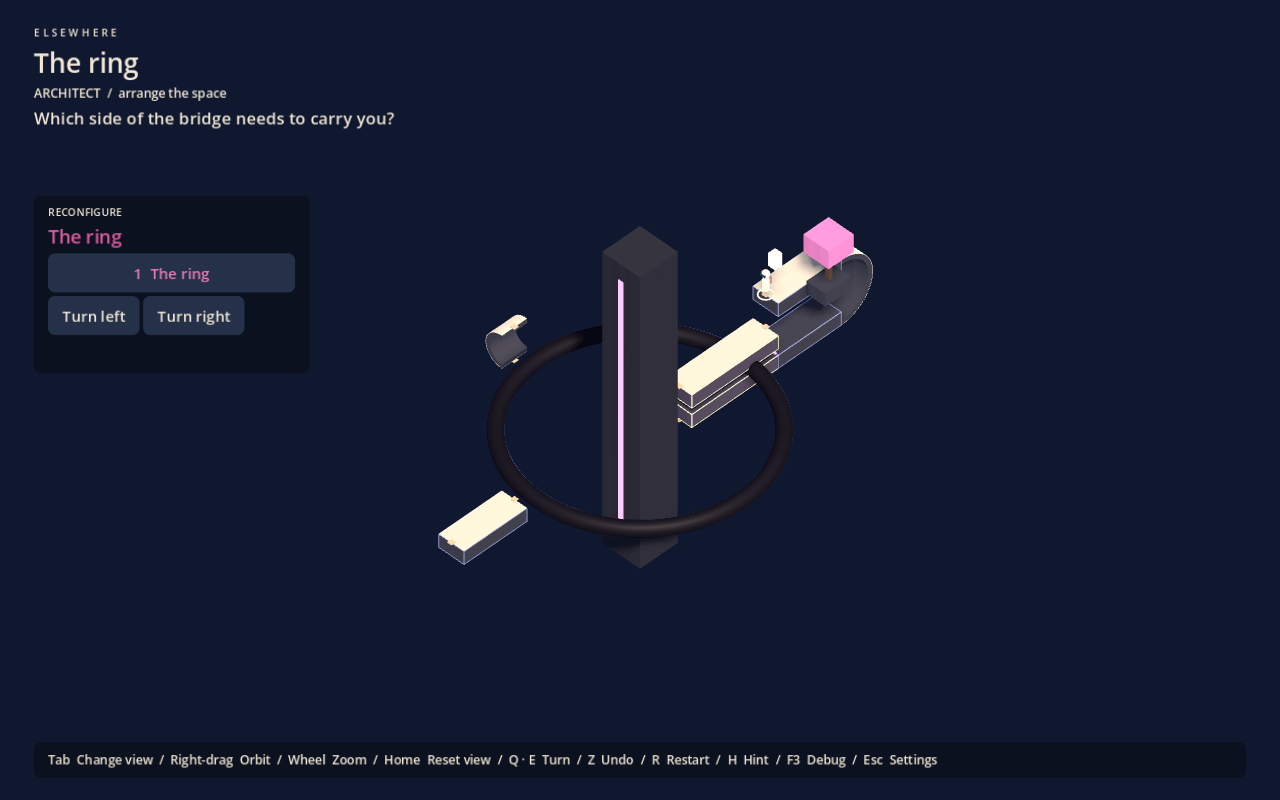
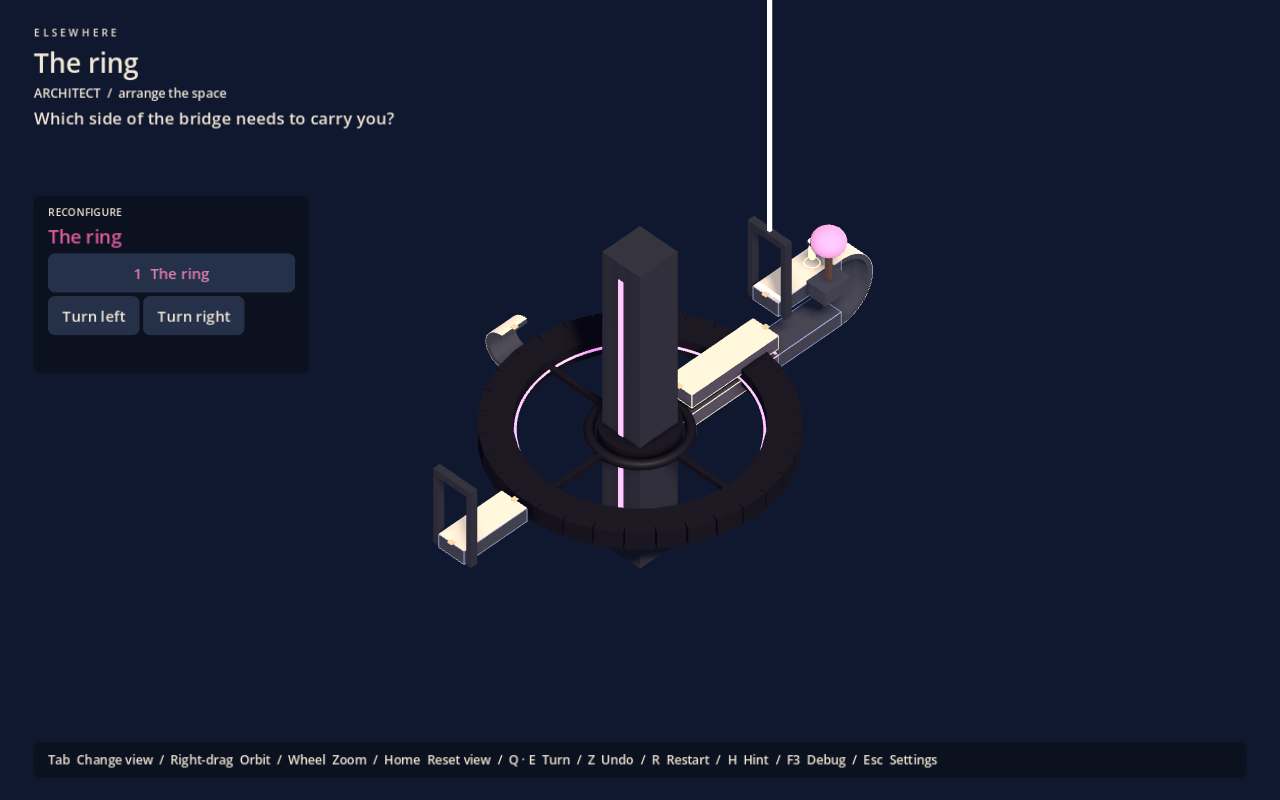
Make The Ring read as one monument
Turn the decorative tube into a wheel mounted on the tower: a flat
32-segment ring band with a magenta inner edge, a hub around a fixed tower
collar, and three slim ribs alongside the walkable bridge. All of it is art
carried by the rotator, so clearances and tests are unchanged.

Replace the debug goal with architecture: matching doorways at the entrance
and the terrace, a light shaft rising from the terrace doorway with a lit
threshold, and a rounded blossom canopy. The runtime skips its placeholder
goal light when a monument authors its own landmark.

diff --git a/docs/authoring.md b/docs/authoring.md
@@ -17,7 +17,7 @@ For a new level, duplicate one of the scenes in `monuments/`, change **Level > l
 
 | Scene | Spatial decision | Authoring coverage |
 |---|---|---|
-| `the_ring.tscn` | Ride the bridge to the stair, change to its underside, and turn it again while hanging beneath | Vertical-axis turntable, top and underside faces of one bridge, fixed 180° side-change stair, decorative ring mesh, three states with distinct roles |
+| `the_ring.tscn` | Ride the bridge to the stair, change to its underside, and turn it again while hanging beneath | Vertical-axis turntable, top and underside faces of one bridge, fixed 180° side-change stair, a wheel of art meshes (band, hub, ribs) carried by the rotator with no collision, an authored goal landmark replacing the placeholder, three states with distinct roles |
 | `tests/fixtures/bell_cradle.tscn` (test fixture) | Leave the moving arm at the fixed belfry before turning it again | Vertical belfry, radial cradle, checkpoint, fixed gravity transfer and a custom torus mesh independent of path logic |
 | `tests/fixtures/folded_observatory.tscn` (test fixture) | Prepare the receiver before docking fingers occupy its sweep | Folding gallery, narrow bent receiver, two-state hinge, custom rectangular walk regions and collision boxes |
 
@@ -27,7 +27,7 @@ The Ring is the only monument: the first Phase 1 study of a different variable, 
 
 ![The ring blockout, solved](images/the-ring-overview.png)
 
-Also see [the ring from its underside](images/the-ring-underside.png), the [folded observatory blockout](images/authoring-observatory.png) and the [isolated editor state preview](images/authoring-state-preview.png).
+Also see [the ring from its underside](images/the-ring-underside.png), [the entrance in first person](images/the-ring-entrance.png), [the view back from the terrace](images/the-ring-terrace.png), the [folded observatory blockout](images/authoring-observatory.png) and the [isolated editor state preview](images/authoring-state-preview.png).
 
 ## Components and coordinates
 
